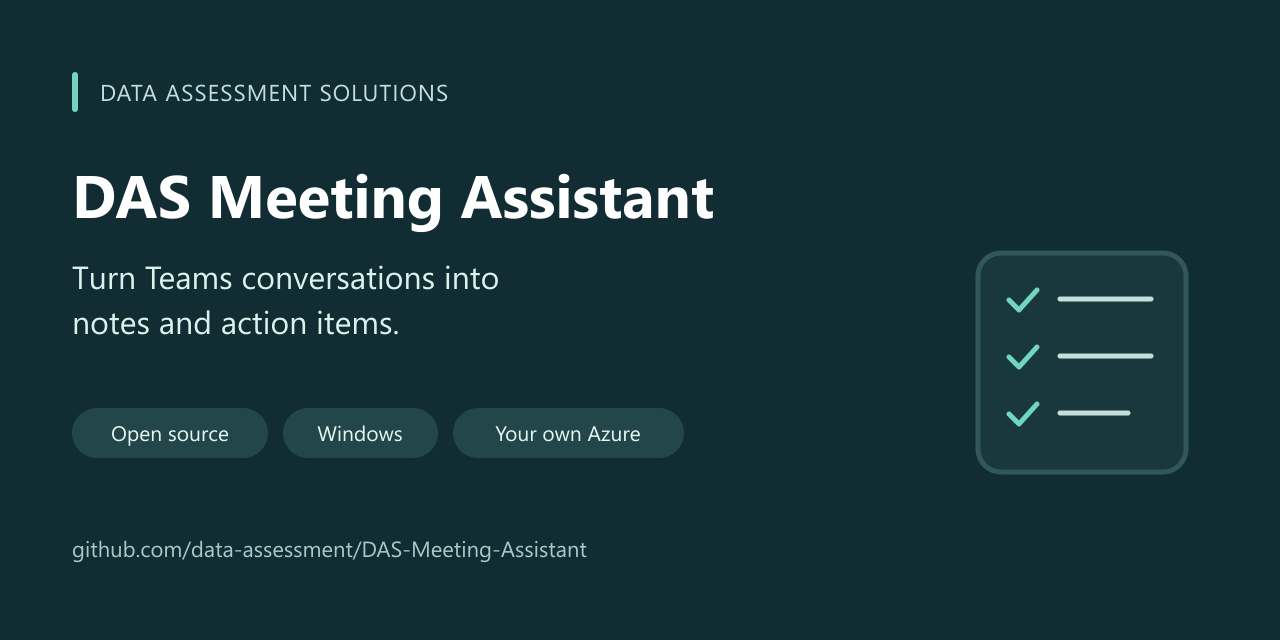
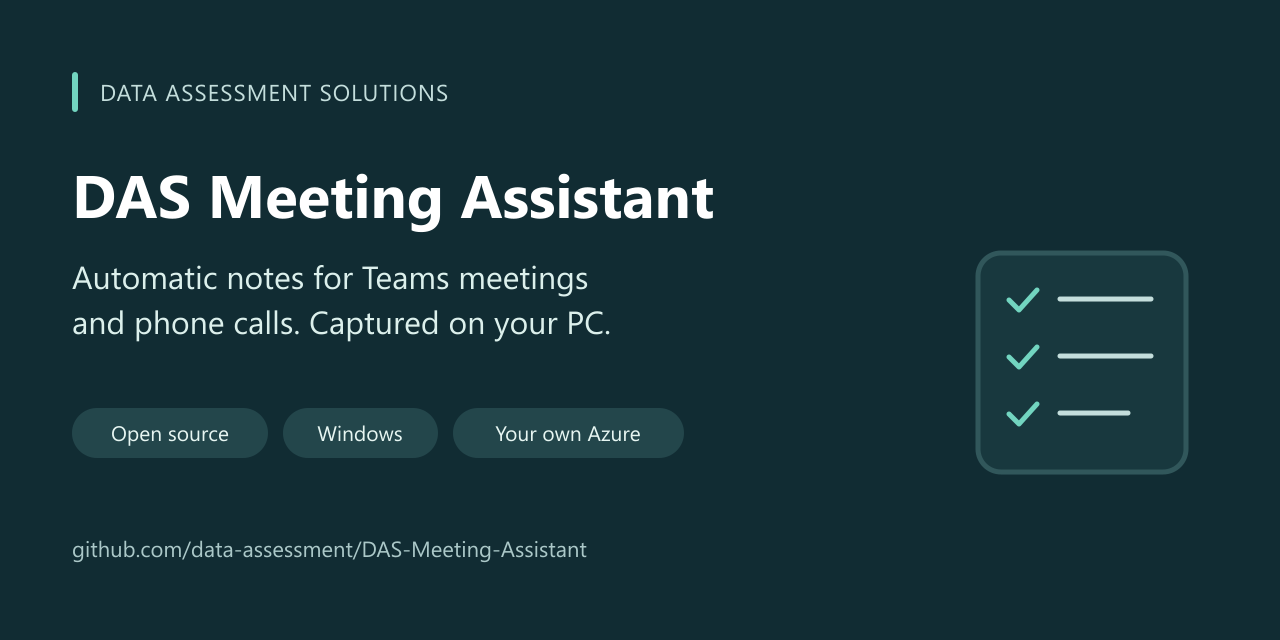
Highlight automatic PC audio capture for external meetings and Teams Phone

Changed region(s): [[0.0625, 0.4062, 0.4688, 0.5312]]

diff --git a/docs/README.de.md b/docs/README.de.md
@@ -1,13 +1,38 @@
 # DAS Meeting Assistant
 
-**Aus Teams-Gesprächen werden Notizen und Aufgaben.**
+**Automatische Notizen für Teams-Meetings und Telefonate — über das Audio deines PCs.**
 
-Der DAS Meeting Assistant ist eine quelloffene Windows-Anwendung für
-Live-Transkription, Zusammenfassungen und bearbeitbare Aufgaben. Du nutzt deine
-eigenen Azure-Ressourcen und speicherst die Notizen auf deinem PC oder in OneNote.
+Der DAS Meeting Assistant macht aus Gesprächen Zusammenfassungen und bearbeitbare
+Aufgaben. Die quelloffene Windows-Anwendung funktioniert bei eigenen Meetings,
+bei Einladungen externer Organisationen und bei Telefonaten mit normalen Rufnummern
+über Teams Phone. Du nutzt deine eigenen Azure-Ressourcen und speicherst die Notizen
+auf deinem PC oder in OneNote.
 
 [English](../README.md) · [Installation für KI-Agenten](agent-install.md) ·
 [Data Assessment Solutions](https://www.data-assessment.com/)
+
+## Unabhängig von der eingebauten Teams-Transkription
+
+Der Assistent erfasst **dein Mikrofon und die Audiowiedergabe deines PCs**. Er benötigt
+weder eine vom Organisator gestartete Teams-Transkription noch Zugriff auf dessen
+Teams-Transkript.
+
+- **Startet automatisch:** Bei aktivierter Automatik erkennt der laufende Assistent
+  über deinen angemeldeten Teams-Präsenzstatus ein aktives Gespräch und beginnt mit
+  den Notizen. Du musst die Transkription nicht für jedes Meeting einzeln starten.
+- **Auch bei extern organisierten Meetings:** Ob Kunde, Partner oder eine andere
+  Organisation eingeladen hat, spielt für die Audioerfassung keine Rolle. Du bist
+  nicht auf die Freigabe des Transkripts durch den Organisator angewiesen.
+- **Auch bei Telefonaten:** Der Assistent funktioniert ebenso bei Anrufen zu oder
+  von normalen Telefonnummern über Teams Phone. Ein Teams-Meeting oder Kalendereintrag
+  ist dafür nicht erforderlich.
+- **Läuft lokal auf deinem PC:** Die Windows-Anwendung erfasst das gewählte Mikrofon
+  und Wiedergabegerät. Das Gespräch muss über diese Geräte auf diesem PC laufen.
+
+Die Audioerfassung erfolgt lokal; Spracherkennung und Zusammenfassung übernehmen
+**deine konfigurierten Azure-Dienste**. Die KI-Verarbeitung arbeitet also nicht offline.
+Für den automatischen Start sind Microsoft-Anmeldung und die Erkennung eines aktiven
+Gesprächs erforderlich. Manuelles Starten und Stoppen ist ebenfalls möglich.
 
 ![Meeting-Notizen mit Zusammenfassung und bearbeitbaren Aufgaben](assets/meeting-notes.png)
 

diff --git a/README.md b/README.md
@@ -1,14 +1,36 @@
 # DAS Meeting Assistant
 
-**Turn Teams conversations into notes and action items.**
+**Automatic notes for Teams meetings and phone calls — captured on your PC.**
 
-An open-source Windows desktop assistant for live transcription, AI-generated
-meeting summaries and editable tasks. Bring your own Azure resources and save
-notes on your PC or in OneNote.
+An open-source Windows desktop assistant that turns conversations into summaries
+and editable action items. It works with meetings you organize, meetings hosted by
+external organizations, and Teams Phone calls to or from regular telephone numbers.
+Bring your own Azure resources and save notes on your PC or in OneNote.
 
 [Install with your AI agent](#install-with-your-ai-agent) ·
 [Deutsch](docs/README.de.md) · [Data handling](#data-handling) ·
 [About DAS](#about-data-assessment-solutions)
+
+## Independent of Teams' built-in transcription
+
+The assistant captures **your microphone and the audio played by your PC**. It does
+not need the meeting organizer to start Teams transcription or give you access to
+a Teams transcript.
+
+- **Starts automatically:** with automatic start enabled, the running assistant
+  detects your active Teams call or meeting through your signed-in Teams presence
+  and starts taking notes. You do not have to start transcription for each meeting.
+- **Works with external organizers:** the meeting can be set up by a customer,
+  partner or another organization. Audio capture does not depend on who sent the
+  invitation or on access to the organizer's transcript.
+- **Includes telephone calls:** conversations with regular phone numbers through
+  Teams Phone are covered too; no scheduled Teams meeting or invitation is needed.
+- **Runs on your PC:** the Windows app captures the selected microphone and playback
+  device locally. The conversation must run through those devices on that PC.
+
+Local audio capture is combined with **your configured Azure services** for speech
+recognition and summarization. The AI processing is not offline. Automatic start
+requires Microsoft sign-in and active-call detection; manual start/stop is also available.
 
 ![Meeting Notes showing a summary and editable action items](docs/assets/meeting-notes.png)
 
